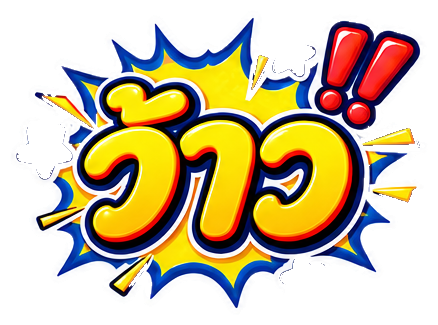
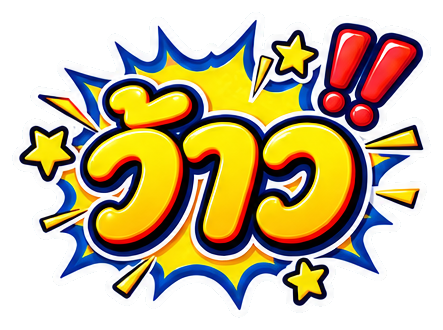
auto: claude edit rattana-price-tag.html

diff --git a/rattana-price-tag.html b/rattana-price-tag.html
@@ -6273,7 +6273,7 @@ const RT_STICKERS = [
   { id:5,  label:'โปรแรง! ช็อกราคา' }, { id:6,  label:'เฉพาะสมาชิก' }, { id:7,  label:'ลดแรงเวอร์' }, { id:8,  label:'ของดี มีคุณภาพ' },
   { id:9,  label:'ส่งไว ถึงมือคุณ' }, { id:10, label:'มีสิทธิพิเศษ' }, { id:11, label:'ช้อปเลย! (มาสคอต)' }, { id:12, label:'ติดตามโปรก่อนใคร' },
 ];
-const stickerSrc = id => `stickers/sticker-${String(id).padStart(2,'0')}.png?v=2`;   // ?v bumps when the PNGs are re-cut (cache-bust)
+const stickerSrc = id => `stickers/sticker-${String(id).padStart(2,'0')}.png?v=3`;   // ?v bumps when the PNGs are re-cut (cache-bust)
 let stickerState = {};   // modeKey → [ {k, sid, page, x, y, w} ]  (x,y,w = fractions of the page)
 let stickerSel = null;
 let stickerUid = 1;
